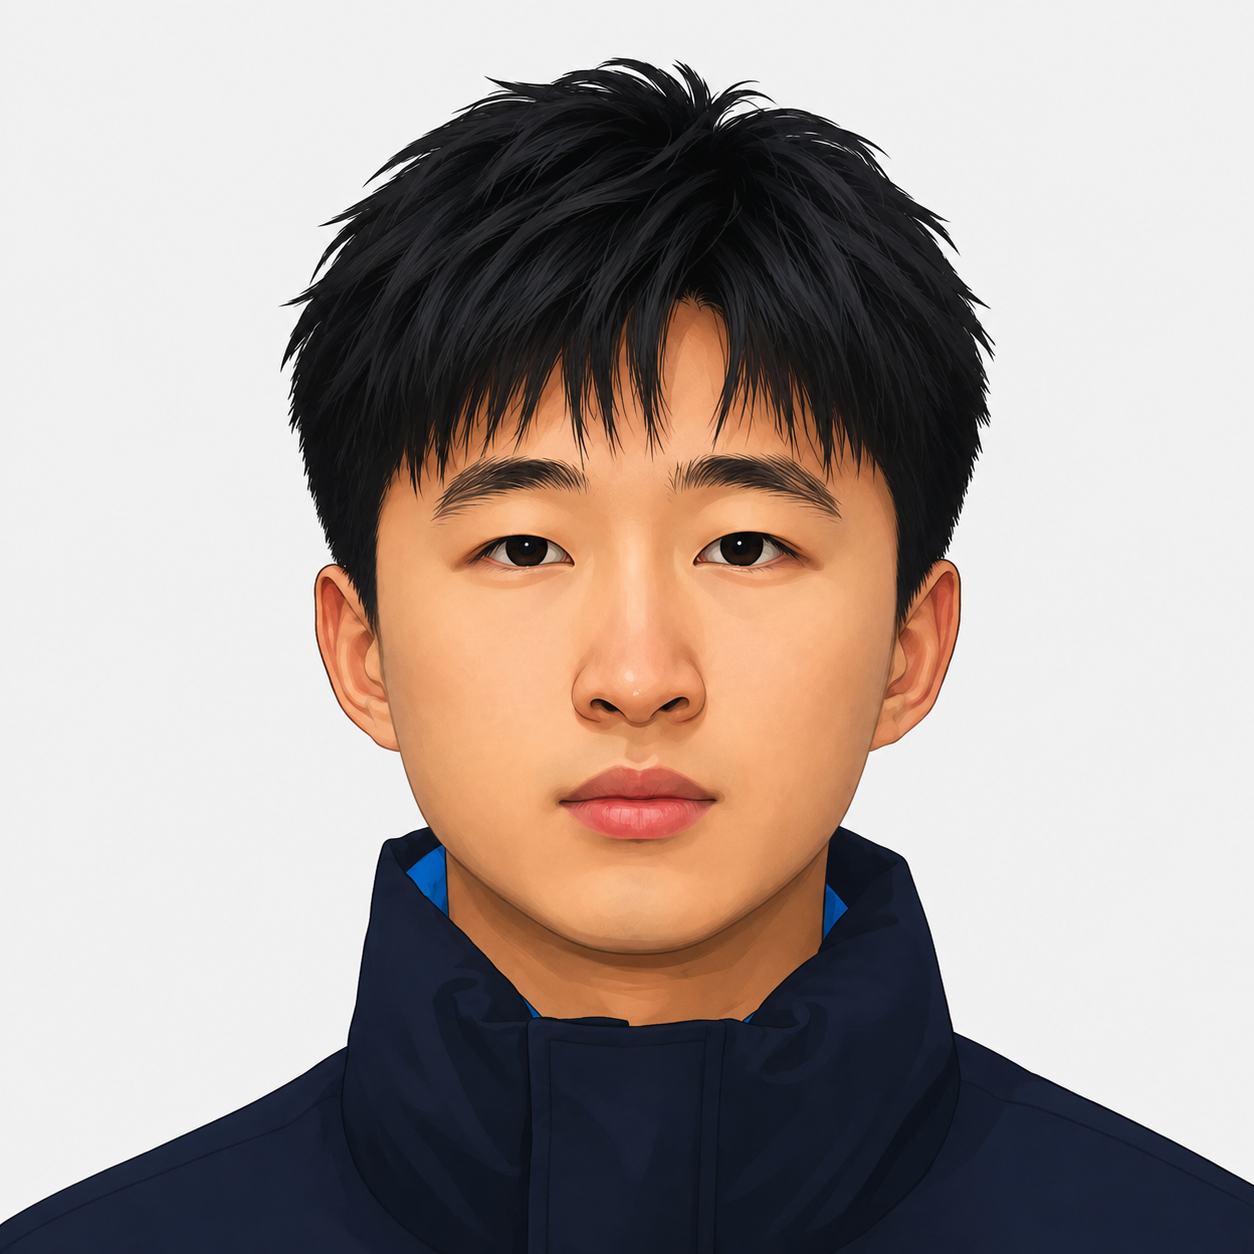
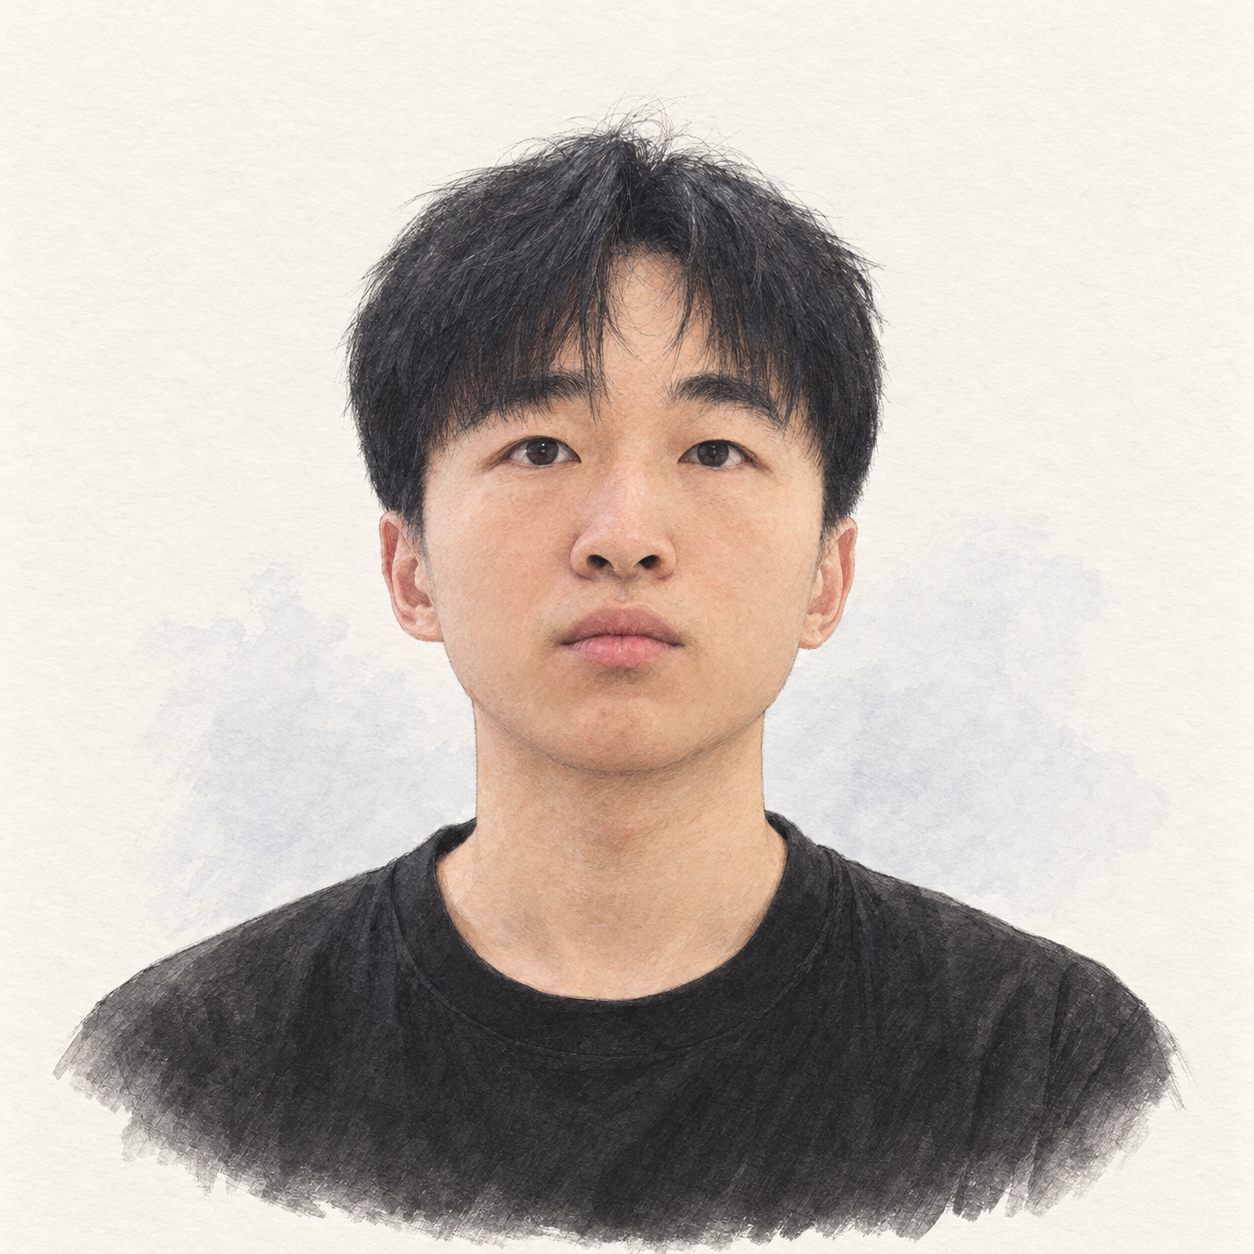
Replace homepage portrait with selected watercolor photo

diff --git a/index.html b/index.html
@@ -51,7 +51,7 @@
                 </p>
               </td>
               <td style="padding:2.5%;width:37%;max-width:37%">
-                <a href="Avatar.png"><img style="width:100%;max-width:100%;object-fit: cover; border-radius: 50%;" alt="profile photo" src="Avatar.png" class="hoverZoomLink"></a>
+                <a href="Avatar.png?v=600cb1f09c70"><img style="width:100%;max-width:100%;object-fit: cover; border-radius: 50%;" alt="profile photo" src="Avatar.png?v=600cb1f09c70" class="hoverZoomLink"></a>
               </td>
             </tr>
           </tbody></table>

diff --git a/zh.html b/zh.html
@@ -51,7 +51,7 @@
                 </p>
               </td>
               <td style="padding:2.5%;width:37%;max-width:37%">
-                <a href="Avatar.png"><img style="width:100%;max-width:100%;object-fit: cover; border-radius: 50%;" alt="个人照片" src="Avatar.png" class="hoverZoomLink"></a>
+                <a href="Avatar.png?v=600cb1f09c70"><img style="width:100%;max-width:100%;object-fit: cover; border-radius: 50%;" alt="个人照片" src="Avatar.png?v=600cb1f09c70" class="hoverZoomLink"></a>
               </td>
             </tr>
           </tbody></table>
